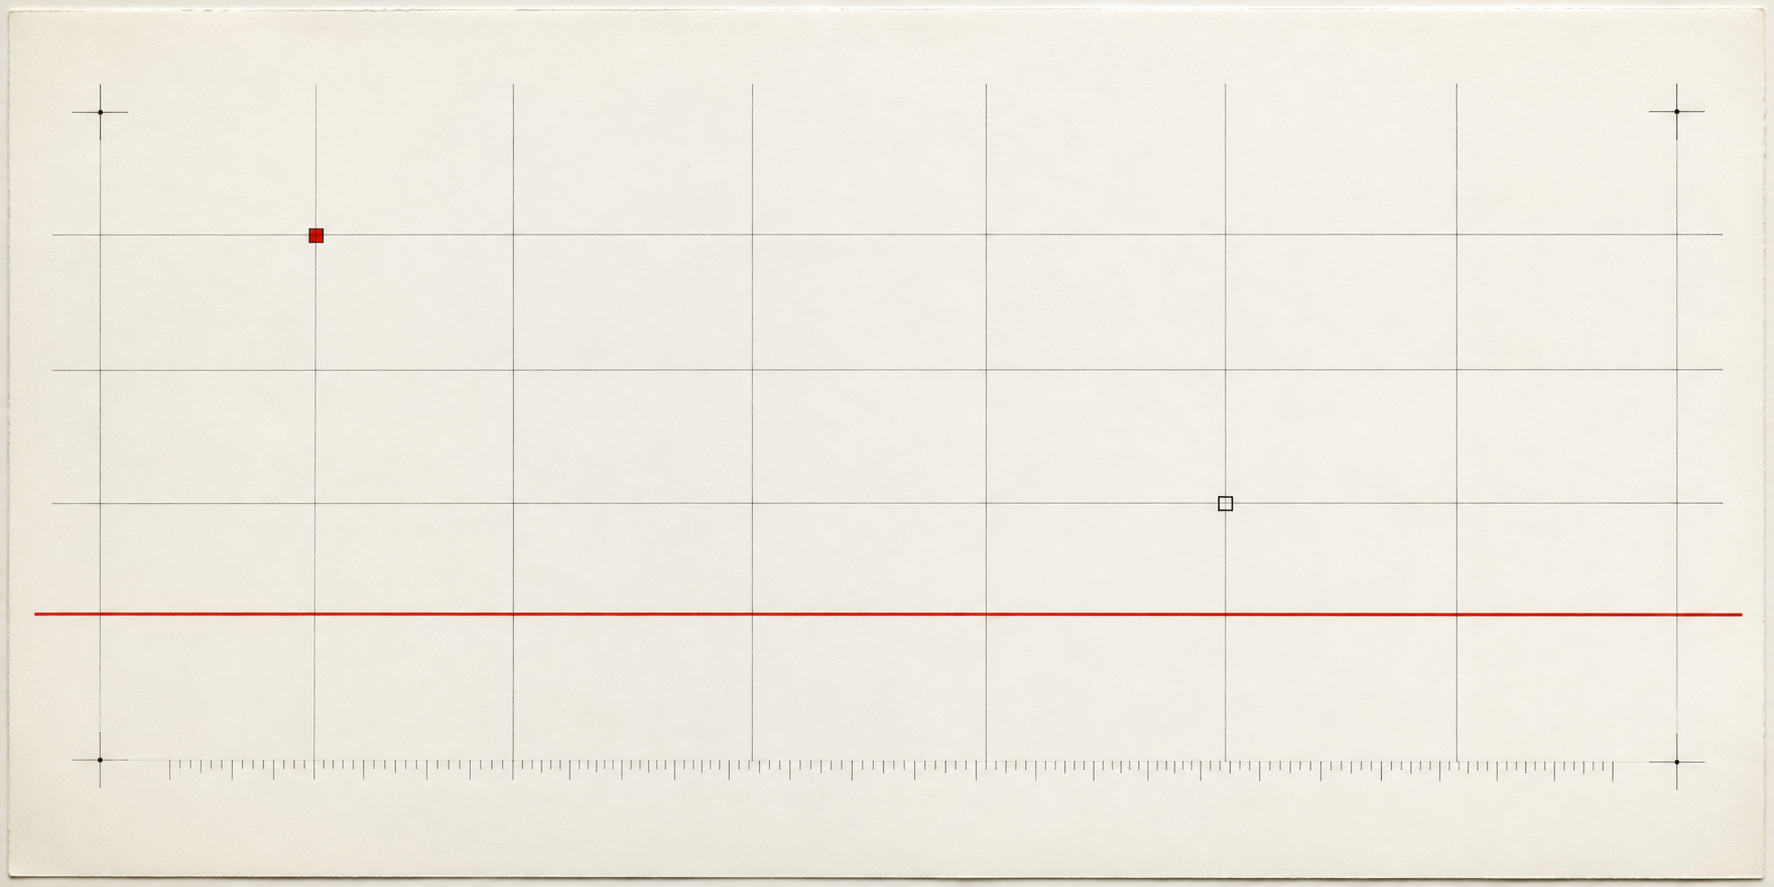
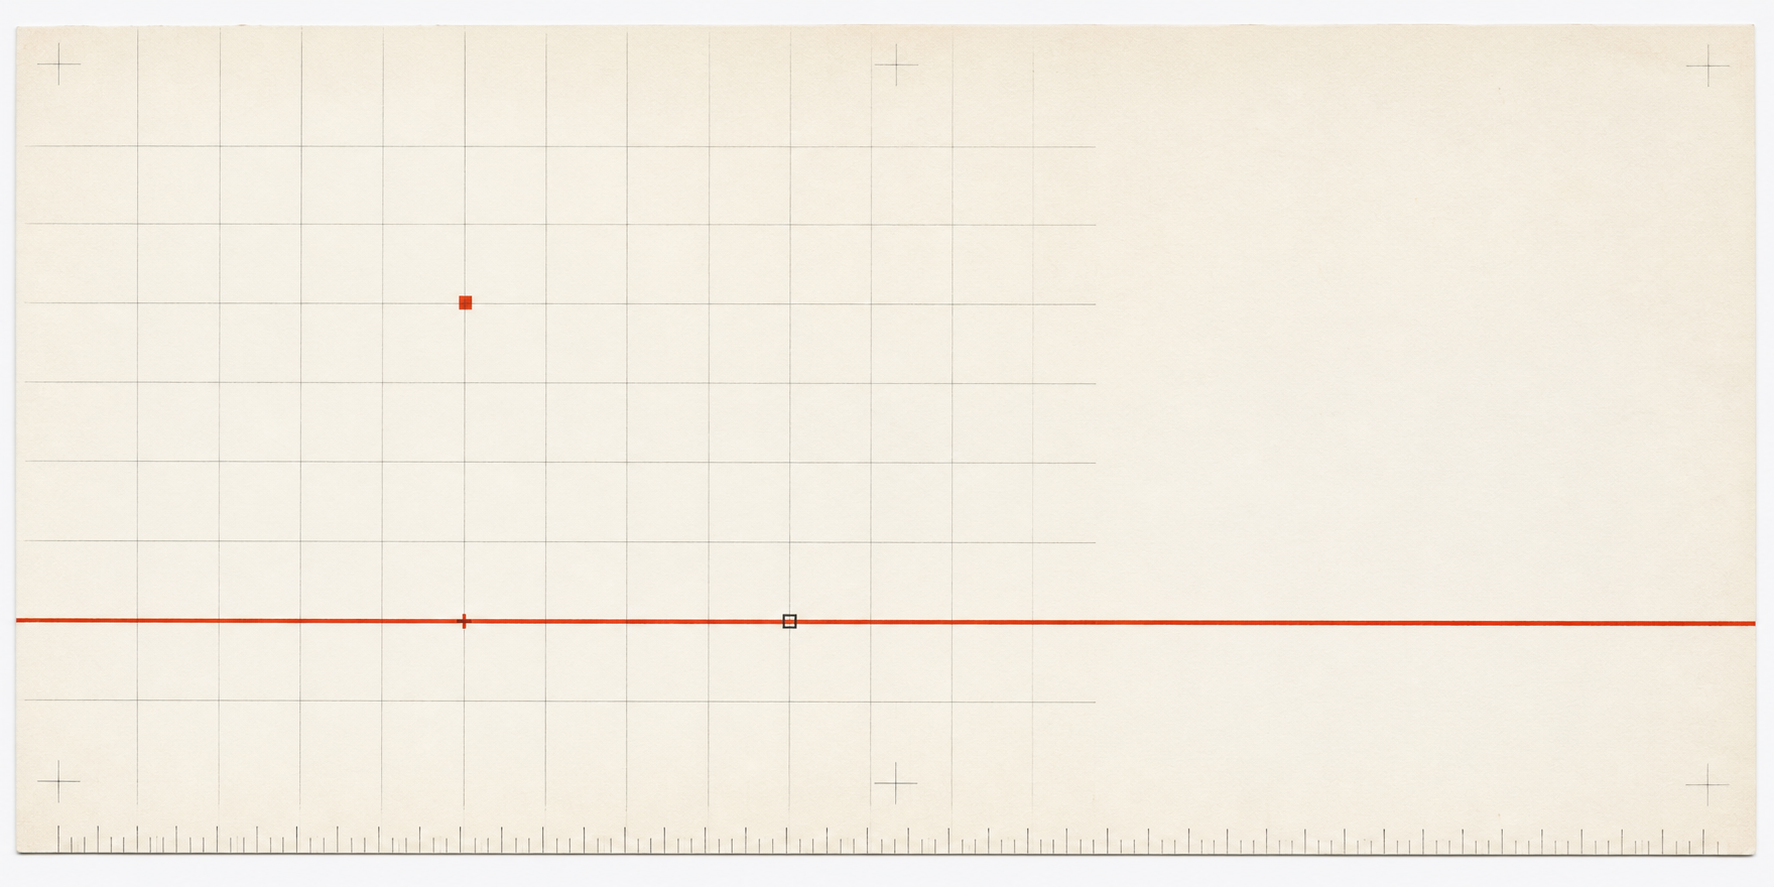
feat: finish the set — method-run, plain stage labels, changelog, new artwork
The last unreadable name. A bare `method` sitting beside thirty `method-*`
reads as a typo, so it becomes `method-run` — it drives a whole feature through
the stages. Renamed with a targeted replace (backticked form and frontmatter
only), because "method" appears as an ordinary English word on nearly every
page and a blind replace would have rewritten the prose.

README stage labels were still jargon in English while the Thai edition had
already been plain: doctrine → the rules, acquire → gather, verify → check.
`method-run` also moved out of the "ship" row, where it never belonged.

Adds CHANGELOG.md (1.2.0 is breaking for anyone on 1.1.0 — /ask-nzs is now
/nzs-start), ADR 0005 recording the rename with its cost and why it does not
contradict ADR 0002, issue templates that route newcomers to START-HERE and
security reports to private advisories, and START-HERE links from both
ecosystem guides.

New artwork, generated through 9router on cx/gpt-5.5-image, three directions
kept and one replaced:

  banner            the grid resolving into open paper, scale across the full
                    width, exactly three marks — replaces v1, which was busier
  start-here        warm riso: one red arrow and three growing steps on a red
                    baseline. Friendly without a mascot
  ecosystem         four machinist measuring tools on a single red baseline —
                    the page's whole argument, that tools are how a claim is
                    measured
[…]

diff --git a/docs/adr/0005-plain-names-over-precise-ones.md b/docs/adr/0005-plain-names-over-precise-ones.md
@@ -1,0 +1,72 @@
+# 0005 — Plain names over precise ones
+
+**Status:** accepted
+**Date:** 2026-08-08
+
+## Context
+
+The set was named by someone who already knew what each skill did. Measured on
+the published repo:
+
+- `method-se`, `method-doctrine`, `method-robust`, `method-pm`, `method-register`
+  and `ask-nzs` cannot be decoded from the name by anyone who has not read the
+  file. `nzs` means nothing at all to a stranger.
+- The README carried 18 uses of load-bearing vocabulary (*medium*, *doctrine*,
+  *ratchet*, *adversarial*, *anti-theatre*) in 1,149 words, none defined at first
+  use.
+- There was no page describing what success looks like, and no troubleshooting.
+
+Most people writing software with an agent today are not full-time engineers.
+A name that requires the glossary is a door that only opens for people who
+already have the key.
+
+ADR 0002's reasoning — that renaming buys a prefix and costs 21 directory moves
+— was correct at the time and is not the same question. That proposal changed
+the prefix and nothing else. This one changes names that were *wrong*: opaque,
+or inconsistent with what the skill actually does.
+
+## Decision
+
+Rename eleven skills to plain verbs and nouns; leave the twenty that were
+already legible.
+
+| was | now | why |
+|---|---|---|
+| `method-se` | `method-code` | "se" is an initialism only insiders expand |
+| `method-doctrine` | `method-evidence` | it is about evidence; "doctrine" describes its tone, not its job |
+| `method-robust` | `method-harden` | a verb, and the verb people already use |
+| `method-pm` | `method-scope` | "pm" is a job title, not a task |
+| `method-register` | `method-record` | "register" reads as a verb meaning sign-up |
+| `method-economics` | `method-cost` | the question people actually ask |
+| `method-visual` | `method-design` | it covers layout and diagrams, not only visuals |
+| `method-ideate` | `method-ideas` | "ideate" is consultant vocabulary |
+| `method-appsec` | `method-web-security` | initialism |
+| `method-aisec` | `method-ai-security` | initialism |
+| `ask-nzs` | `nzs-start` | "start" says what to type first; "ask-nzs" required knowing the brand |
+| `method` | `method-run` | a bare `method` beside thirty `method-*` reads as a typo |
+
+Timing is the argument. The repo was one day old with no dependents; the same
+rename in a month breaks everyone who installed it.
+
+## What it cost
+
+Twelve directory moves and 126 reference rewrites across 34 files, done with a
+lookahead-guarded script because a naive replace of `method-se` also consumes
+the first nine characters of `method-secrets` and `method-security`.
+
+Two names got *longer* (`method-web-security`, `method-ai-security`). That is
+the deliberate trade: an initialism is shorter to type and slower to understand,
+and these are read far more often than typed.
+
+## Consequences
+
+- `docs/START-HERE.md` (and the Thai edition) became possible to write, because
+  a beginner's page whose table is full of initialisms is not a beginner's page.
+- The validator gained two fixes the rename exposed: it required the router to
+  route to itself, and its cross-reference pattern was `[a-z]+`, which matched
+  **nothing** for two-word names — so every reference to `method-web-security`
+  was silently unchecked. A guard that quietly stops covering part of its
+  surface is worse than one that fails loudly.
+- ADR 0002 stands: prefix churn for its own sake is still refused. This ADR is
+  narrower — it renames what was *unreadable*, not what was merely differently
+  prefixed.

diff --git a/CHANGELOG.md b/CHANGELOG.md
@@ -1,0 +1,57 @@
+# Changelog
+
+Notable changes. Dates are when the change landed on `main`.
+
+## 1.2.0 — 2026-08-08
+
+**Renamed eleven skills, plus the bare `method`.** Names that could not be
+decoded without reading the file. `method-se` → `method-code`,
+`method-doctrine` → `method-evidence`, `method-robust` → `method-harden`,
+`method-pm` → `method-scope`, `method-register` → `method-record`,
+`method-economics` → `method-cost`, `method-visual` → `method-design`,
+`method-ideate` → `method-ideas`, `method-appsec` → `method-web-security`,
+`method-aisec` → `method-ai-security`, `ask-nzs` → **`nzs-start`**, and
+`method` → `method-run`. Reasoning and cost in
+[ADR 0005](docs/adr/0005-plain-names-over-precise-ones.md).
+
+**Breaking for anyone who installed 1.1.0.** Re-run the install; the old
+directories are gone. `/ask-nzs` is now `/nzs-start`.
+
+**Added [`docs/START-HERE.md`](docs/START-HERE.md)** (and the Thai edition) —
+a front door for people who describe what they want and ship it, rather than
+writing code all day. No jargon, the real bug that motivated the method,
+install, first use with the output to expect, a plain-words "which one do I
+need" table, and troubleshooting for what actually goes wrong.
+
+**Validator fixes the rename exposed.** It required the router to route to
+itself; and its cross-reference pattern was `[a-z]+`, so two-word names like
+`method-web-security` matched nothing and every reference to them was silently
+unchecked.
+
+## 1.1.0 — 2026-08-08
+
+**Five security disciplines.** `method-security` (the discipline behind the
+`security` review role, which the review table already selected in four of its
+six rows while nothing defined it), `method-threat`, `method-secrets`,
+`method-web-security`, `method-ai-security`. Scoped to what this method is used
+on rather than to a domain encyclopedia — see
+[ADR 0004](docs/adr/0004-security-scoped-to-what-we-ship.md).
+
+**[`docs/ECOSYSTEM.md`](docs/ECOSYSTEM.md)** (+ Thai) — every tool the method
+composes with, what each buys, and where each fails.
+
+**Thai README.**
+
+**`scripts/validate.mjs` + CI.** The repo now enforces on itself what it asks of
+everyone else: frontmatter contract, cross-references resolve, entry points
+reachable from the router, README coverage in both languages, no
+credential-shaped strings, no counts written into prose. Every check
+mutation-tested.
+
+**`SECURITY.md`, `CONTRIBUTING.md`, PR template, marketplace manifest,
+`.gitattributes`.**
+
+## 1.0.0 — 2026-08-07
+
+First public release. The entry layer, the discipline layer, and three ADRs —
+extracted from 279 commits and 106 instructions of one real project.

diff --git a/docs/ECOSYSTEM.th.md b/docs/ECOSYSTEM.th.md
@@ -2,11 +2,15 @@
 
 [English](ECOSYSTEM.md) · **ภาษาไทย**
 
+![เครื่องมือ](assets/ecosystem.png)
+
 skills ในรีโปนี้คือ **วิธีทำงาน** แต่วิธีทำงานต้องมี **ความสามารถ** มารองรับ — บางอย่างต้อง
 อ่านฐานข้อมูลได้จริง ขับเบราว์เซอร์ได้จริง ทำดัชนีโค้ดได้ หรือจำสัปดาห์ที่แล้วได้ หน้านี้คือ
 อีกครึ่งที่เหลือ: เครื่องมือทุกตัวที่ใช้ร่วมกัน มันคืออะไร ได้อะไร ใช้ยังไง และพังตรงไหน
 
 อ่านรอบเดียวพอ หลังจากนั้นให้ `nzs-start` จัด stack ให้
+
+**ยังไม่เคยใช้ชุดนี้เลย?** อ่าน [เริ่มตรงนี้](START-HERE.th.md) ก่อน หน้านี้ถือว่าคุณอ่านมาแล้ว
 
 ---
 

diff --git a/README.md b/README.md
@@ -72,13 +72,14 @@ currency.**
 
 | stage | skills |
 |---|---|
-| doctrine | `method-evidence` · `method-onboard` |
-| acquire | `method-research` · `method-clone` · `method-extract` |
+| the rules | `method-evidence` · `method-onboard` |
+| gather | `method-research` · `method-clone` · `method-extract` |
 | decide | `method-decide` · `method-cost` · `method-record` · `method-postmortem` · `method-scope` · `method-discovery` · `method-ideas` |
 | build | `method-plan` · `method-code` · `method-guard` · `method-harden` |
-| verify | `method-review` · `method-debug` · `method-verify` · `method-design` |
+| check | `method-review` · `method-debug` · `method-verify` · `method-design` |
 | secure | `method-security` · `method-threat` · `method-secrets` · `method-web-security` · `method-ai-security` |
-| ship | `method-ship` · `method` (orchestrator) |
+| ship | `method-ship` |
+| run it all | `method-run` — drives a whole feature through the stages above |
 
 A user-invoked skill may call a discipline. It never calls another user-invoked
 skill — the rule that keeps triggers unambiguous.

diff --git a/docs/ECOSYSTEM.md b/docs/ECOSYSTEM.md
@@ -2,12 +2,17 @@
 
 **English** · [ภาษาไทย](ECOSYSTEM.th.md)
 
+![the tools](assets/ecosystem.png)
+
 The skills in this repository are a **method**. A method needs **capability** —
 something that can actually read a database, drive a browser, index a codebase,
 or remember last week. This page is the other half: every tool this method
 composes with, what it is, what it buys, how to use it, and where it fails.
 
 Read it once. After that, `nzs-start` will name the stack for you.
+
+**Never used this set before?** Read [Start here](START-HERE.md) first — this
+page assumes you have.
 
 ---
 

diff --git a/docs/START-HERE.th.md b/docs/START-HERE.th.md
@@ -2,6 +2,8 @@
 
 [English](START-HERE.md) · **ภาษาไทย**
 
+![เริ่มตรงนี้](assets/start-here.png)
+
 ถ้าคุณ vibecode — บอกว่าอยากได้อะไร ให้ AI เขียนให้ แล้วส่งขึ้นจริง — หน้านี้เขียนให้คุณ
 ไม่ต้องรู้ว่า STRIDE คืออะไร ไม่ต้องอ่านเอกสารอื่นมาก่อน สิบห้านาที แล้วคุณจะได้ใช้มันจริง
 

diff --git a/.github/ISSUE_TEMPLATE/a-skill-did-the-wrong-thing.md b/.github/ISSUE_TEMPLATE/a-skill-did-the-wrong-thing.md
@@ -1,0 +1,17 @@
+---
+name: A skill did the wrong thing
+about: It ran, but the result was wrong, unhelpful, or surprising
+labels: skill-behaviour
+---
+
+**Which skill, and what did you type**
+
+**What it did**
+
+**What you expected instead**
+
+**What it claimed vs what was true** *(if relevant)*
+The most useful reports are the ones where it said something was done and it
+was not. If that happened, say what it claimed and how you found out.
+
+**Anything from `node scripts/validate.mjs`** *(optional)*

diff --git a/.github/ISSUE_TEMPLATE/the-docs-were-confusing.md b/.github/ISSUE_TEMPLATE/the-docs-were-confusing.md
@@ -1,0 +1,15 @@
+---
+name: The docs were confusing
+about: A word, a name, or a page that did not make sense
+labels: docs
+---
+
+**Where** — the page and the section
+
+**What you expected it to mean**
+
+**What it actually meant**
+
+Confusing names and undefined jargon are treated as real defects here, not as
+nitpicks: a name that needs the glossary is a door that only opens for people
+who already have the key. Please do report them.

diff --git a/docs/START-HERE.md b/docs/START-HERE.md
@@ -2,6 +2,8 @@
 
 **English** · [ภาษาไทย](START-HERE.th.md)
 
+![start here](assets/start-here.png)
+
 If you vibecode — you describe what you want, the AI writes it, you ship — this
 page is for you. You do not need to know what STRIDE is. You do not need to have
 read the other docs. Fifteen minutes, and you will have used this thing.

diff --git a/skills/method-run/SKILL.md b/skills/method-run/SKILL.md
@@ -1,5 +1,5 @@
 ---
-name: method
+name: method-run
 description: >-
   Runs the full working loop for a feature — acquire (research/clone/extract when
   the request carries a reference), plan, build simplest-first, review in rotating
